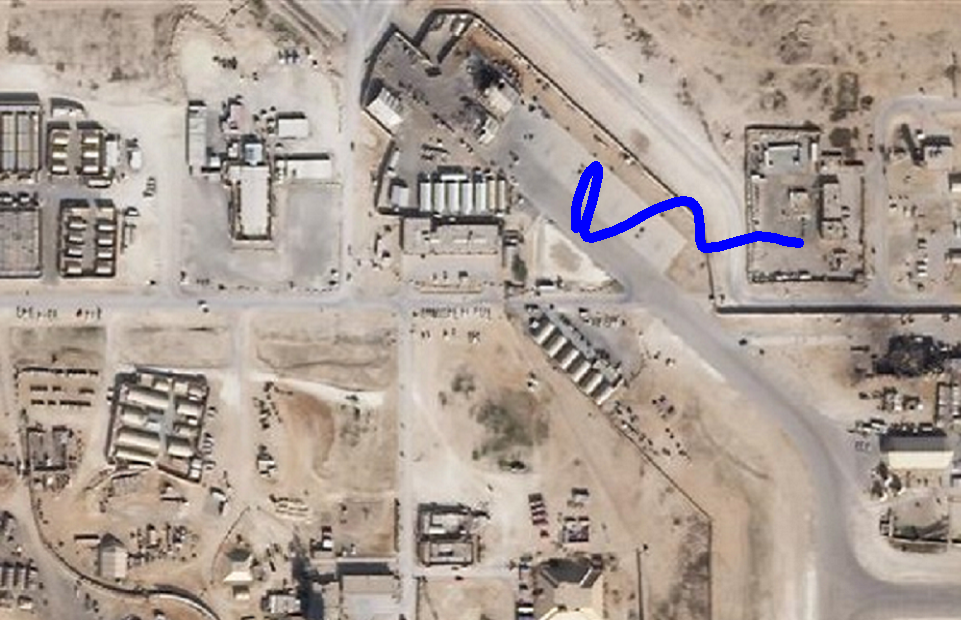
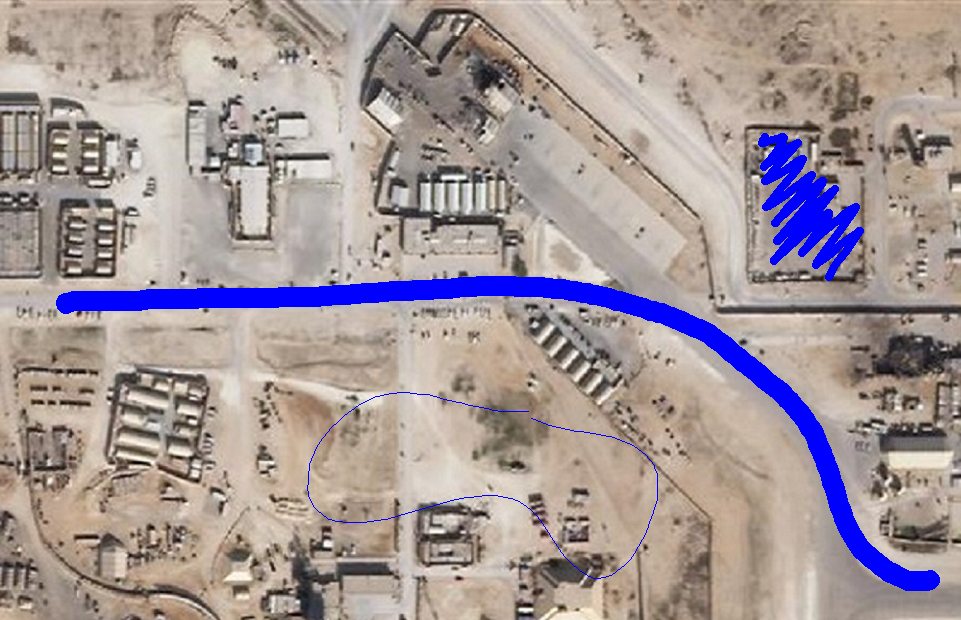
updated re-normalizing of target_dist to plot on top of map to make it better match rviz display

Changed region(s): [[0.0624, 0.429, 0.999, 0.95], [0.6868, 0.2145, 0.9053, 0.4597], [0.5931, 0.2452, 0.6868, 0.3984]]

diff --git a/ergodic_interface_v12.py b/ergodic_interface_v12.py
@@ -345,12 +345,14 @@ class DrawingWidget ( Widget ) :
         down_sample = cv2.resize(update,(int(w/10),int(h/10)))
         smooth = gaussian_filter(down_sample,sigma=2)
         # normalize to send to ros
-        val = np.array(smooth,dtype = np.float32)
+        val = np.array(smooth.copy(),dtype = np.float32)
         val /= np.sum(val)
         # scale back up for cv2 
         target_dist = val.copy()
-        target_dist /= np.max(target_dist)
-        target_dist *= 255
+        target_dist -= np.min(target_dist) # shift min to 0
+        if np.max(target_dist) > 0: # error handling for empty map
+            target_dist /= np.max(target_dist) # normalize max to 1
+        target_dist *= 255 # rescale to 255 (RGB range)
         target_dist = np.array(target_dist,dtype=np.uint8) 
         # colormap
         up_sample = cv2.resize(target_dist,(w,h))
@@ -402,7 +404,7 @@ class DrawingWidget ( Widget ) :
             global CURRENT_DRAW 
                 
             with self.canvas :
-                print (  ) 
+                # print (  ) 
                 if CURRENT_DRAW == 'none' :
                     pass
                 elif CURRENT_DRAW == 'ground':
